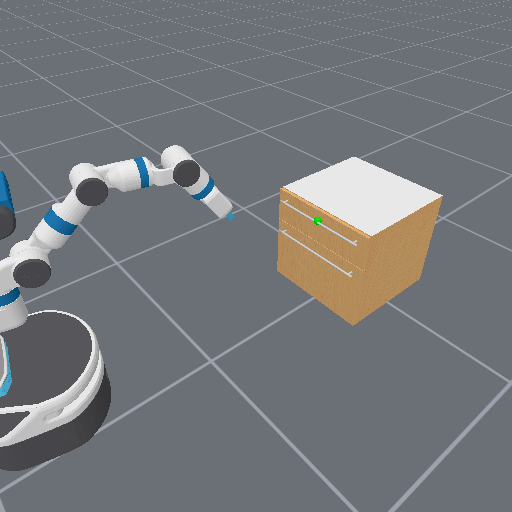
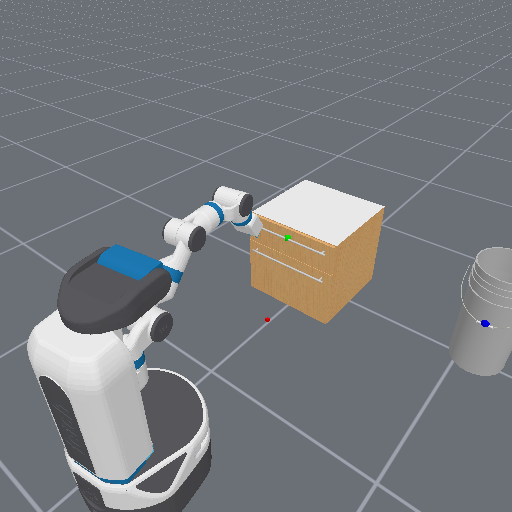
12.15-1

diff --git a/mani_skill/envs/tasks/mobile_manipulation/final.py b/mani_skill/envs/tasks/mobile_manipulation/final.py
@@ -20,6 +20,14 @@ from mani_skill.utils.registration import register_env
 from mani_skill.utils.structs import Articulation, Link, Pose
 from mani_skill.utils.structs.types import GPUMemoryConfig, SimConfig
 
+def Find_middle_point(mesh: trimesh.Trimesh):
+    # n = np.mean(mesh.vertex_normals, axis=0)
+    # dot_products = np.dot(mesh.vertex_normals, n)
+    # most_aligned_index = np.argmax(dot_products)
+    # return mesh.vertices[most_aligned_index]
+    p = np.mean(mesh.vertices, axis=0)
+    return mesh.vertices[np.argmin(np.linalg.norm(mesh.vertices - p, axis=1))]
+
 CABINET_COLLISION_BIT = 29
 BUCKET_COLLISION_BIT = 28
 
@@ -52,6 +60,7 @@ class FinalEnv(BaseEnv):
     SUPPORTED_ROBOTS = ["fetch"]
     agent: Union[Fetch]
     drawer_handle_types = ["prismatic"]
+    bucket_handle_types = ["revolute_unwrapped"]
     DRAWER_JSON = (
         PACKAGE_ASSET_DIR / "partnet_mobility/meta/info_cabinet_drawer_train.json"
     )
@@ -106,7 +115,7 @@ class FinalEnv(BaseEnv):
 
     @property
     def _default_human_render_camera_configs(self):
-        pose = sapien_utils.look_at(eye=[-1.8, -1.3, 1.8], target=[-0.3, 0.5, 0])
+        pose = sapien_utils.look_at(eye=[-2.2, -1.3, 2], target=[-0, 0.5, 0])
         return CameraConfig(
             "render_camera", pose=pose, width=512, height=512, fov=1, near=0.01, far=100
         )
@@ -146,7 +155,7 @@ class FinalEnv(BaseEnv):
                 self.scene, f"partnet-mobility:{model_id}"
             )
             bucket_builder.set_scene_idxs(scene_idxs=[i])
-            bucket_builder.initial_pose = sapien.Pose(p=[0, 0, 0], q=[1, 0, 0, 0])
+            bucket_builder.initial_pose = sapien.Pose(p=[0, -1.1, 0.4], q=[1, 0, 0, 0])
             bucket = bucket_builder.build(name=f"{model_id}-{i}")
             self.remove_from_state_dict_registry(bucket)
             for link in bucket.links:
@@ -158,7 +167,7 @@ class FinalEnv(BaseEnv):
             handle_links_meshes.append([])
 
             for link, joint in zip(bucket.links, bucket.joints):
-                if joint.type[0] in self.drawer_handle_types:
+                if joint.type[0] in self.bucket_handle_types:
                     handle_links[-1].append(link)
                     handle_links_meshes[-1].append(
                         link.generate_mesh(
@@ -172,12 +181,12 @@ class FinalEnv(BaseEnv):
         self.add_to_state_dict_registry(self.bucket)
         self.bucket_handle_link = Link.merge(
             [links[link_ids[i] % len(links)] for i, links in enumerate(handle_links)],
-            name="handle_link",
+            name="bucket_handle_link",
         )
         self.bucket_handle_link_pos = common.to_tensor(
             np.array(
                 [
-                    meshes[link_ids[i] % len(meshes)].bounding_box.center_mass
+                    Find_middle_point(meshes[link_ids[i] % len(meshes)])
                     for i, meshes in enumerate(handle_links_meshes)
                 ]
             ),
@@ -187,7 +196,7 @@ class FinalEnv(BaseEnv):
             self.scene,
             radius=0.02,
             color=[0, 0, 1, 1],
-            name="handle_link_goal",
+            name="bucket_handle_link_goal",
             body_type="kinematic",
             add_collision=False,
             initial_pose=sapien.Pose(p=[0, 0, 0], q=[1, 0, 0, 0]),
@@ -196,6 +205,16 @@ class FinalEnv(BaseEnv):
     def _load_cabinets(self, joint_types: List[str]):
         # we sample random cabinet model_ids with numpy as numpy is always deterministic based on seed, regardless of
         # GPU/CPU simulation backends. This is useful for replaying demonstrations.
+        # model_ids = self._batched_episode_rng.choice(self.all_cabinet_model_ids)
+
+        self.cube = actors.build_cube(
+            self.scene,
+            half_size=0.01,
+            color=[1, 0, 0, 1],
+            name="cube",
+            initial_pose=sapien.Pose(p=[-0.5, 0, 0.015]),
+        )
+
         model_ids = self._batched_episode_rng.choice(self.all_cabinet_model_ids)
         link_ids = self._batched_episode_rng.randint(0, 2**31)
 
@@ -245,7 +264,7 @@ class FinalEnv(BaseEnv):
         self.add_to_state_dict_registry(self.cabinet)
         self.drawer_handle_link = Link.merge(
             [links[link_ids[i] % len(links)] for i, links in enumerate(handle_links)],
-            name="handle_link",
+            name="drawer_handle_link",
         )
         # store the position of the handle mesh itself relative to the link it is apart of
         self.drawer_handle_link_pos = common.to_tensor(
@@ -262,7 +281,7 @@ class FinalEnv(BaseEnv):
             self.scene,
             radius=0.02,
             color=[0, 1, 0, 1],
-            name="handle_link_goal",
+            name="drawer_handle_link_goal",
             body_type="kinematic",
             add_collision=False,
             initial_pose=sapien.Pose(p=[0, 0, 0], q=[1, 0, 0, 0]),
@@ -286,24 +305,25 @@ class FinalEnv(BaseEnv):
         qmin, qmax = target_qlimits[..., 0], target_qlimits[..., 1]
         self.target_qpos = qmin + (qmax - qmin) * self.min_open_frac
 
-    def handle_link_positions(self, env_idx: Optional[torch.Tensor] = None):
+    def handle_link_positions(self, lk, lkpos, env_idx: Optional[torch.Tensor] = None):
         if env_idx is None:
             return transform_points(
-                self.drawer_handle_link.pose.to_transformation_matrix().clone(),
-                common.to_tensor(self.drawer_handle_link_pos, device=self.device),
+                lk.pose.to_transformation_matrix().clone(),
+                common.to_tensor(lkpos, device=self.device),
             )
         return transform_points(
-            self.drawer_handle_link.pose[env_idx].to_transformation_matrix().clone(),
-            common.to_tensor(self.drawer_handle_link_pos[env_idx], device=self.device),
+            lk.pose[env_idx].to_transformation_matrix().clone(),
+            common.to_tensor(lkpos[env_idx], device=self.device),
         )
 
     def _initialize_episode(self, env_idx: torch.Tensor, options: dict):
-
         with torch.device(self.device):
             b = len(env_idx)
             xy = torch.zeros((b, 3))
             xy[:, 2] = self.cabinet_zs[env_idx]
             self.cabinet.set_pose(Pose.create_from_pq(p=xy))
+            xy[:,:3] = torch.tensor([0, -1.1, 0.4])
+            self.bucket.set_pose(Pose.create_from_pq(p=xy))
 
             # initialize robot
             if self.robot_uids == "fetch":
@@ -344,6 +364,9 @@ class FinalEnv(BaseEnv):
             qlimits = self.cabinet.get_qlimits()  # [b, self.cabinet.max_dof, 2])
             self.cabinet.set_qpos(qlimits[env_idx, :, 0])
             self.cabinet.set_qvel(self.cabinet.qpos[env_idx] * 0)
+            qlimits = self.bucket.get_qlimits()  # [b, self.cabinet.max_dof, 2])
+            self.bucket.set_qpos(qlimits[env_idx, :, 0])
+            self.bucket.set_qvel(self.bucket.qpos[env_idx] * 0)
 
             # NOTE (stao): This is a temporary work around for the issue where the cabinet drawers/doors might open
             # themselves on the first step. It's unclear why this happens on GPU sim only atm.
@@ -356,7 +379,10 @@ class FinalEnv(BaseEnv):
                 self.scene._gpu_fetch_all()
 
             self.drawer_handle_link_goal.set_pose(
-                Pose.create_from_pq(p=self.handle_link_positions(env_idx))
+                Pose.create_from_pq(p=self.handle_link_positions(self.drawer_handle_link, self.drawer_handle_link_pos, env_idx))
+            )
+            self.bucket_handle_link_goal.set_pose(
+                Pose.create_from_pq(p=self.handle_link_positions(self.bucket_handle_link, self.bucket_handle_link_pos, env_idx))
             )
 
     def _after_control_step(self):
@@ -367,7 +393,10 @@ class FinalEnv(BaseEnv):
             self.scene.px.gpu_update_articulation_kinematics()
             self.scene._gpu_fetch_all()
         self.drawer_handle_link_goal.set_pose(
-            Pose.create_from_pq(p=self.handle_link_positions())
+            Pose.create_from_pq(p=self.handle_link_positions(self.drawer_handle_link, self.drawer_handle_link_pos))
+        )
+        self.bucket_handle_link_goal.set_pose(
+            Pose.create_from_pq(p=self.handle_link_positions(self.bucket_handle_link, self.bucket_handle_link_pos))
         )
         if self.gpu_sim_enabled:
             self.scene._gpu_apply_all()
@@ -377,14 +406,14 @@ class FinalEnv(BaseEnv):
         # we can still fetch a joint that represents the parent joint of all those links
         # and easily get the qpos value.
         open_enough = self.drawer_handle_link.joint.qpos >= self.target_qpos
-        handle_link_pos = self.handle_link_positions()
+        drawer_handle_link_pos = self.handle_link_positions(self.drawer_handle_link, self.drawer_handle_link_pos)
 
         link_is_static = (
             torch.linalg.norm(self.drawer_handle_link.angular_velocity, axis=1) <= 1
         ) & (torch.linalg.norm(self.drawer_handle_link.linear_velocity, axis=1) <= 0.1)
         return {
             "success": open_enough & link_is_static,
-            "handle_link_pos": handle_link_pos,
+            "drawer_handle_link_pos": drawer_handle_link_pos,
             "open_enough": open_enough,
         }
 
@@ -395,15 +424,15 @@ class FinalEnv(BaseEnv):
 
         if "state" in self.obs_mode:
             obs.update(
-                tcp_to_handle_pos=info["handle_link_pos"] - self.agent.tcp.pose.p,
-                target_link_qpos=self.drawer_handle_link.joint.qpos,
-                target_handle_pos=info["handle_link_pos"],
+                tcp_to_drawer_handle_pos=info["drawer_handle_link_pos"] - self.agent.tcp.pose.p,
+                target_drawer_link_qpos=self.drawer_handle_link.joint.qpos,
+                target_drawer_handle_pos=info["drawer_handle_link_pos"],
             )
         return obs
 
     def compute_dense_reward(self, obs: Any, action: torch.Tensor, info: Dict):
         tcp_to_handle_dist = torch.linalg.norm(
-            self.agent.tcp.pose.p - info["handle_link_pos"], axis=1
+            self.agent.tcp.pose.p - info["drawer_handle_link_pos"], axis=1
         )
         reaching_reward = 1 - torch.tanh(5 * tcp_to_handle_dist)
         amount_to_open_left = torch.div(

diff --git a/mtask/test.py b/mtask/test.py
@@ -2,15 +2,28 @@ import mani_skill.envs
 import gymnasium as gym
 from PIL import Image
 import numpy as np
-env = gym.make('final', render_mode="rgb_array", num_envs=4, reconfiguration_freq=1)
+env = gym.make('final', render_mode="rgb_array", num_envs=18, reconfiguration_freq=1)
 env.reset()
-img = env.render()[0].cpu()
-img = np.array(img)
-image = Image.fromarray(img)
-image.save('/home/changruinian/bowen/EAI/ManiSkill/mtask/1.png')
+for i in range(18):
+    img = env.render()[i].cpu()
+    img = np.array(img)
+    image = Image.fromarray(img)
+    image.save(f'/home/changruinian/bowen/EAI/ManiSkill/mtask/{i+1}.png')
 
 # env.reset()
 # img = env.render()[0].cpu()
 # img = np.array(img)
 # image = Image.fromarray(img)
 # image.save('/home/changruinian/bowen/EAI/ManiSkill/mtask/2.png')
+
+# env.reset()
+# img = env.render()[0].cpu()
+# img = np.array(img)
+# image = Image.fromarray(img)
+# image.save('/home/changruinian/bowen/EAI/ManiSkill/mtask/3.png')
+
+# env.reset()
+# img = env.render()[0].cpu()
+# img = np.array(img)
+# image = Image.fromarray(img)
+# image.save('/home/changruinian/bowen/EAI/ManiSkill/mtask/4.png')

diff --git a/mani_skill/utils/building/articulations/partnet_mobility.py b/mani_skill/utils/building/articulations/partnet_mobility.py
@@ -46,6 +46,10 @@ def _load_partnet_mobility_dataset():
         raise RuntimeError(
             "Partnet Mobility dataset not found. Download it by running python -m mani_skill.utils.download_asset partnet_mobility_cabinet"
         )
+    
+        raise RuntimeError(
+            "Partnet Mobility dataset not found. Download it by running python -m mani_skill.utils.download_asset partnet_mobility_bucket"
+        )
 
 
 def get_partnet_mobility_builder(
